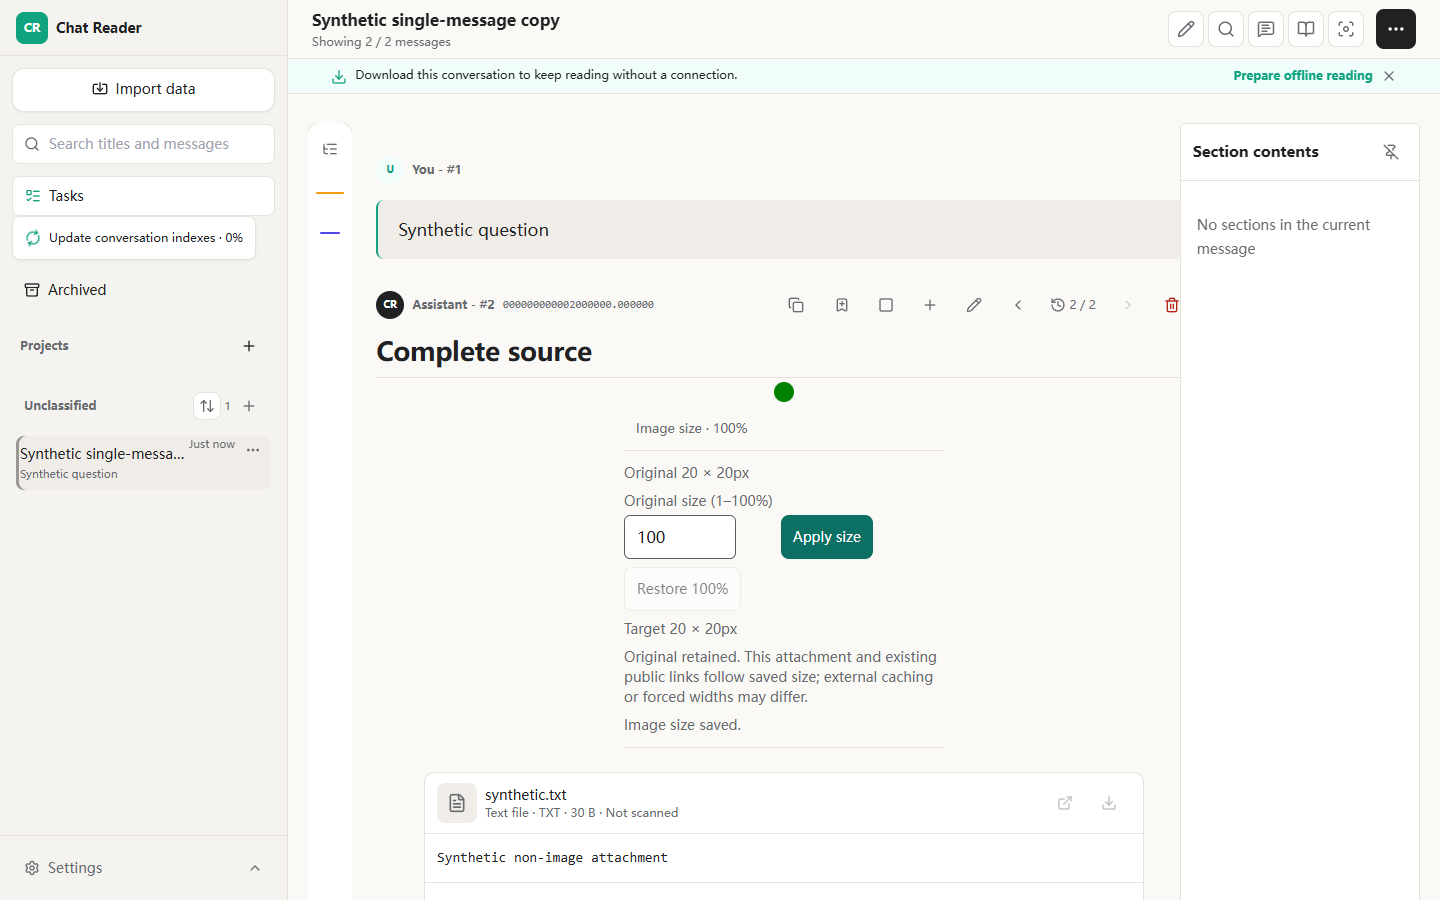
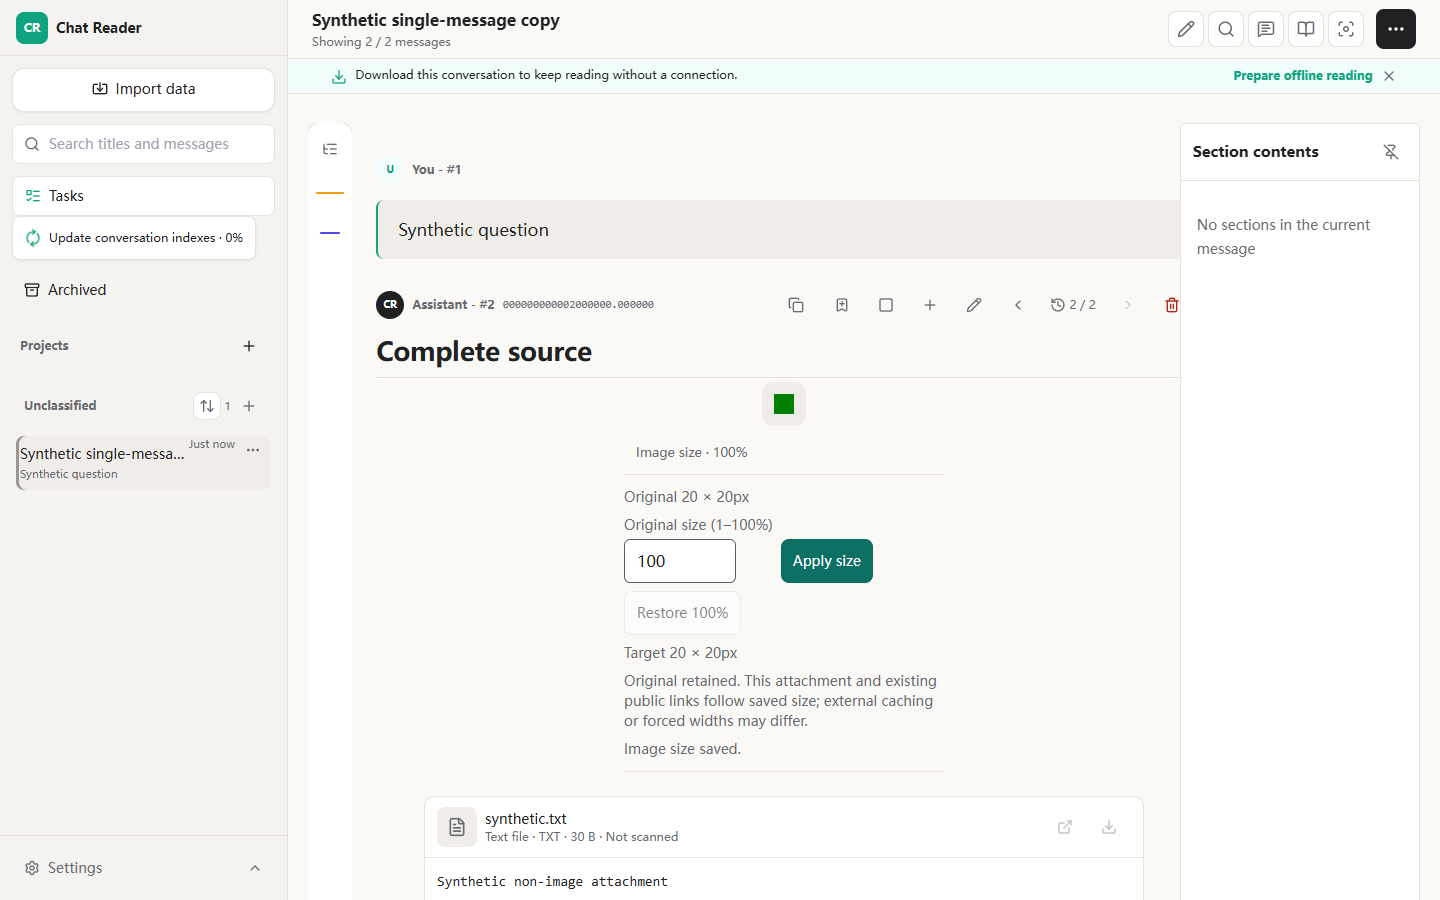
fix: restore search history drafts and preserve image touch targets

diff --git a/apps/web/features/search/search-box.tsx b/apps/web/features/search/search-box.tsx
@@ -12,8 +12,18 @@ export function SearchBox({ initialQuery = "", onSearch, hasResults = false, onM
   useEffect(() => { setQuery(initialQuery); setKeyboardSelection(false); }, [initialQuery]);
   useEffect(() => {
     const focus = () => inputRef.current?.focus();
+    const restoreQuery = () => {
+      // Back can overtake a pending query render, leaving initialQuery unchanged.
+      // Restore the input draft from the traversed URL even in that case.
+      setQuery(new URLSearchParams(window.location.search).get("q") ?? "");
+      setKeyboardSelection(false);
+    };
     window.addEventListener("chat-reader:focus-global-search", focus);
-    return () => window.removeEventListener("chat-reader:focus-global-search", focus);
+    window.addEventListener("popstate", restoreQuery);
+    return () => {
+      window.removeEventListener("chat-reader:focus-global-search", focus);
+      window.removeEventListener("popstate", restoreQuery);
+    };
   }, []);
   const zh = resolvedLocale === "zh-CN";
   return <form className="flex gap-2 rounded-xl border border-ui bg-surface p-2" onSubmit={(event) => { event.preventDefault(); setKeyboardSelection(false); onSearch(query.trim()); }}>

diff --git a/apps/web/app/globals.css b/apps/web/app/globals.css
@@ -539,7 +539,7 @@ html[data-theme="dark"] .border-\[\#d1d5db\] { border-color: var(--border) !impo
 .attachment-gallery-item:has([data-image-display-controls]) { height: auto; }
 .attachment-gallery-item:has([data-image-display-controls]) > .attachment-gallery-trigger { height: var(--attachment-gallery-row-height, auto); }
 .attachment-gallery-item[data-image-sized="true"] { width: min(max(var(--image-display-width), 20rem), 100%); height: auto; }
-.attachment-gallery-item[data-image-sized="true"] > .attachment-gallery-trigger { width: fit-content; max-width: 100%; height: auto; min-height: 0; margin-inline: auto; }
+.attachment-gallery-item[data-image-sized="true"] > .attachment-gallery-trigger { width: fit-content; max-width: 100%; min-width: 2.75rem; height: auto; min-height: 2.75rem; margin-inline: auto; }
 .image-display-input { border-color: var(--markdown-muted); }
 .btn-primary.image-display-apply { background: var(--link); color: var(--surface); }
 .btn-primary.image-display-apply:hover:not(:disabled) { background: var(--link-hover); }

diff --git a/apps/web/e2e/ux-whole-site.spec.ts b/apps/web/e2e/ux-whole-site.spec.ts
@@ -118,6 +118,15 @@ test("search scope, submit, history, stale results, keyboard ordering and failur
     await expect(page).toHaveURL(/\/search\?/);
     await page.screenshot({ path: info.outputPath("search-mobile-after.png") });
     const input = page.getByRole("textbox", { name: "Search", exact: true });
+    // A traversal can keep the same committed q while a different input draft
+    // exists (also possible when Back overtakes a pending query render).
+    await input.fill(key + "UNSUBMITTED");
+    await page.goBack();
+    await expect(page).not.toHaveURL(/status_scope/);
+    await expect(input).toHaveValue(key);
+    await page.goForward();
+    await expect(page).toHaveURL(/status_scope=all/);
+    await expect(input).toHaveValue(key);
     await input.fill(key + "NEW"); await page.getByRole("button", { name: "Search", exact: true }).click();
     await expect(page).toHaveURL(new RegExp(key + "NEW"));
     await page.goBack(); await expect(input).toHaveValue(key);

diff --git a/apps/web/e2e/message-markdown-copy.spec.ts b/apps/web/e2e/message-markdown-copy.spec.ts
@@ -127,6 +127,10 @@ for (const width of [1440, 375]) test(`${width}px copies whole message Markdown 
     await expect.poll(imageSize).toBe(10);
     const inlineImage = article.locator(`[data-attachment-id="${svg.id}"] .attachment-gallery-image`);
     await expect.poll(() => inlineImage.evaluate(node => node.getBoundingClientRect().width)).toBe(10);
+    const imageTrigger = article.locator(`[data-attachment-id="${svg.id}"] .attachment-gallery-trigger`);
+    const touchBox = await imageTrigger.boundingBox();
+    expect(touchBox!.width).toBeGreaterThanOrEqual(44);
+    expect(touchBox!.height).toBeGreaterThanOrEqual(44);
     await scale.fill("25");
     await article.getByRole("button", { name: /Apply size|应用比例/ }).click();
     await expect.poll(imageSize).toBe(5);

diff --git a/docs/execution/IMAGE_DISPLAY_SCALE_2026-10-23.md b/docs/execution/IMAGE_DISPLAY_SCALE_2026-10-23.md
@@ -101,3 +101,41 @@ policy reports **zero unapproved findings / zero policy errors**, retaining the
 existing tested braces patch and reporting the lower-severity KaTeX/PostCSS
 findings. The dependency patch regressions pass **9 tests**. A new full CI and
 fresh 50-minute wait are required after the final local reruns.
+
+### Small-image View target
+
+An additional browser assertion reproduced a real accessibility regression:
+at 50% of the synthetic 20px original, the View button was only **10px wide**
+at both 1440px and 375px. Its wrapper now has a 44px minimum width/height;
+the bitmap remains 10px (and the public URL remains 10px), so this does not
+enlarge the selected image. The new DOM assertion stays in the complete
+Markdown/image browser gate. This repair requires another exact-source CI;
+no result from the previous source may substitute for it.
+
+### Second CI: search history race
+
+Source `30f5a26aba2c2b49a6633cbad2e79765da85a9a1` ran as `39839236789`.
+Dispatch was **2026-10-22 19:20:39 UTC**, result-read gate **20:10:39 UTC**,
+actual read **20:10:39 UTC** (after the precise receipt deadline). API/settings passed;
+Web passed dependency audit but failed the search-history assertion in the
+Source Editor/mutation gate: **99 passed / 1 failed**. No image was accepted
+or deployed from this run.
+
+Ten ordinary local repeats passed, but a counting-only history probe with
+Chrome's 6× CPU slowdown reproduced the original failure **4 of 5** times:
+the URL returned to the previous query while the input retained `NEW`.
+Back can overtake the pending query render, so `initialQuery` never changes
+and its effect cannot reset the draft. A same-query filter-history traversal
+with an unsubmitted draft also failed deterministically before repair.
+
+The existing SearchBox now restores its draft from the current URL on
+`popstate`, clears keyboard selection and removes its listener on teardown.
+The original immediate-Back assertion is retained; the browser gate additionally
+checks same-query Back/Forward restoration. No sleep, retry, assertion removal,
+new router abstraction, dependency or visual-token change is introduced.
+The repaired source passes lint, nonincremental typecheck and production build.
+Starting the rebuilt local Web was rejected by the execution tool policy, so
+post-repair search browser acceptance is explicitly deferred to the next full
+CI, not inferred from the earlier ten ordinary passes. The image-only
+44px repair had already passed the complete selected browser suite
+(26 passed / 1 existing opt-in skip) before this search-only change.

diff --git a/PROJECT_STATE.md b/PROJECT_STATE.md
@@ -23,6 +23,11 @@ First run `39829506577` was checked only after its 50-minute deadline: API and
 settings passed, Web failed official-registry dependency audit and images were
 skipped. The repaired source requires a fresh complete run and another 50-minute
 wait, not reuse of that failed run.
+Second run `39839236789` was also read only after its precise 50-minute gate.
+Web passed dependency audit but exposed a search input/history race; the local
+repair restores the input on actual Back/Forward, including unchanged-query
+traversals. A 44px View hit target preserves the selected bitmap's actual size.
+Both repairs need a new complete exact-source run before deployment.
 
 **Current work (2026-10-22): single-message Markdown copy.** The owner Reader's
 top copy action is immediately before bookmark. It prepares complete canonical

diff --git a/docs/system/MESSAGE_MARKDOWN_COPY_CONTRACT.md b/docs/system/MESSAGE_MARKDOWN_COPY_CONTRACT.md
@@ -122,6 +122,8 @@ a stale save returns 409 with a read-before-retry instruction.
 
 All inline references to **the same attachment** use the saved size, with a
 container-width cap. This is not a different setting for each occurrence.
+The image retains its selected visual pixel size even below 44px; only its
+existing View trigger keeps a 44px minimum hit area for touch/keyboard access.
 Existing public-image URLs keep their identity and resolve the latest selected
 PNG (original raster bytes at 100%). The URL's intrinsic pixels therefore work
 in ordinary Markdown clients without nonstandard image-size syntax. The

diff --git a/docs/documentation-inventory.md b/docs/documentation-inventory.md
@@ -14,6 +14,9 @@ DOMPurify upgrade to 16.4.1/3.4.17, tracked in `system/RELEASE_SAFETY_BASELINE.m
 and reflected by `system/PDFJS_MIGRATION_CONTRACT.md`'s source platform snapshot.
 No direct dependency/exception/gate is added. Only synthetic content and nonsecret
 release receipts may be retained.
+The second CI's unchanged-query/early-Back draft recovery and the small-image
+View hit-target repair are documented in that same execution record; neither
+changes routing contracts, schema or offline formats.
 
 ## Single-message Markdown copy — 2026-10-22
 
